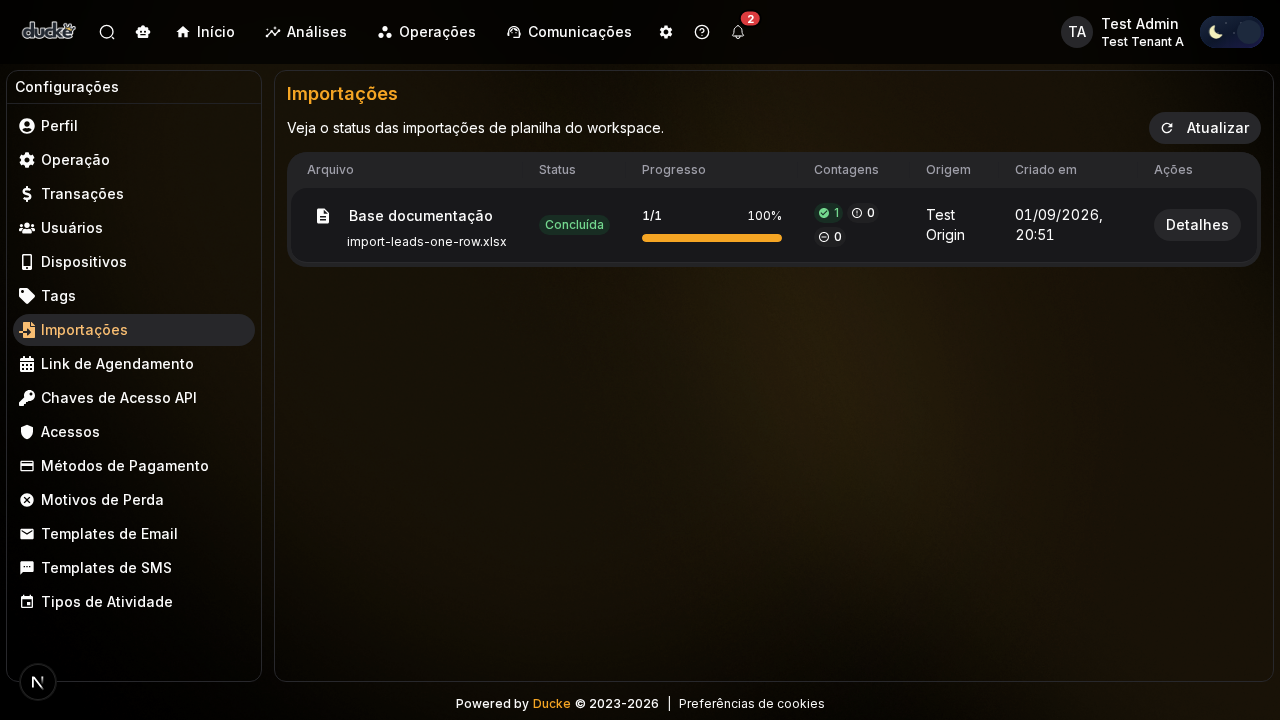
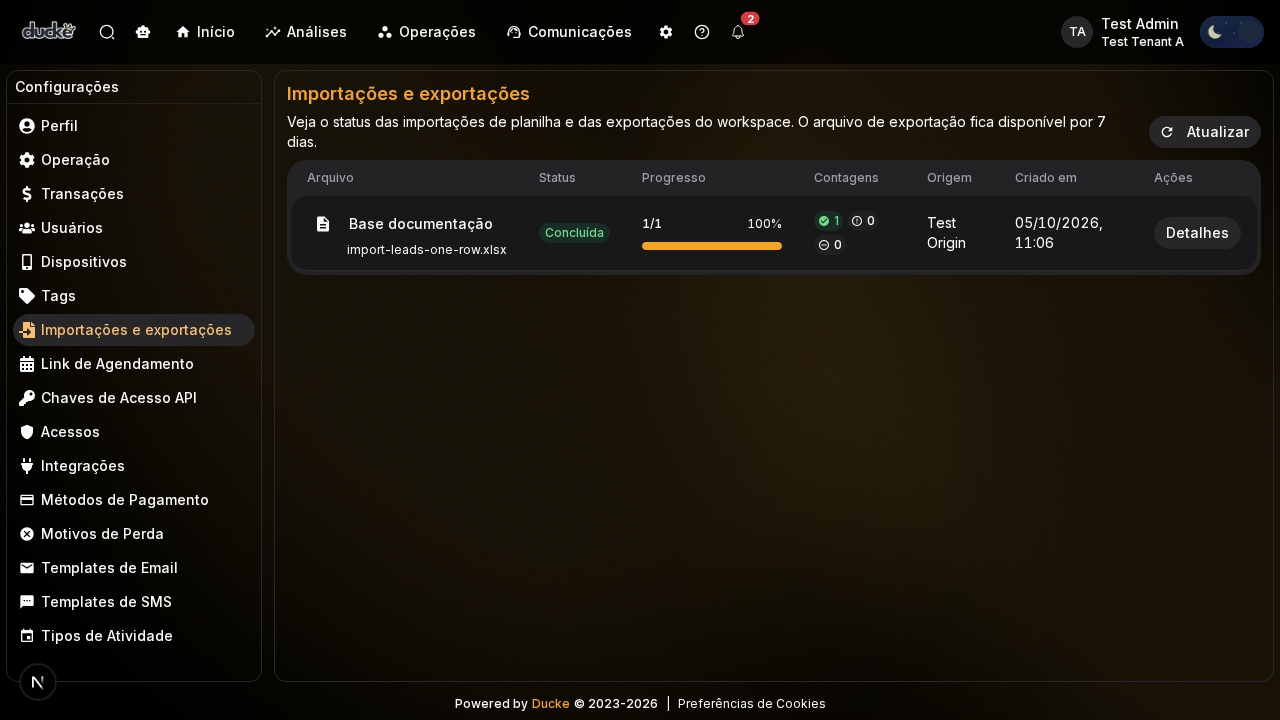
Update import and export documentation to reflect new features and terminology
- Changed the title and references from **Importações de Planilha** to **Importações e exportações** to encompass both imports and exports.
- Enhanced the description in the **Importações e exportações** section to clarify the functionalities available for both imports and exports.
- Added details about the **Exportar campanhas** feature, specifying the availability for operation owners and the types of data included in the export.
- Introduced new images to support the updated documentation, including visuals for the export process and operation package.
- Updated the manifest.json to include new image assets related to the export functionalities.

diff --git a/app/10-configuracao-do-sistema/_meta.js b/app/10-configuracao-do-sistema/_meta.js
@@ -10,7 +10,7 @@ export default {
   '8-configuracao-de-usuarios': 'Usuários da Operação',
   '9-configuracao-de-acessos': 'Perfis de Acesso',
   '10-chaves-de-acesso-api': 'Chaves de Acesso API',
-  '11-importacoes-de-planilha': 'Importações de Planilha',
+  '11-importacoes-de-planilha': 'Importações e exportações',
   '12-integracoes': 'Integrações',
   '13-templates-de-email': 'Templates de Email',
 }
